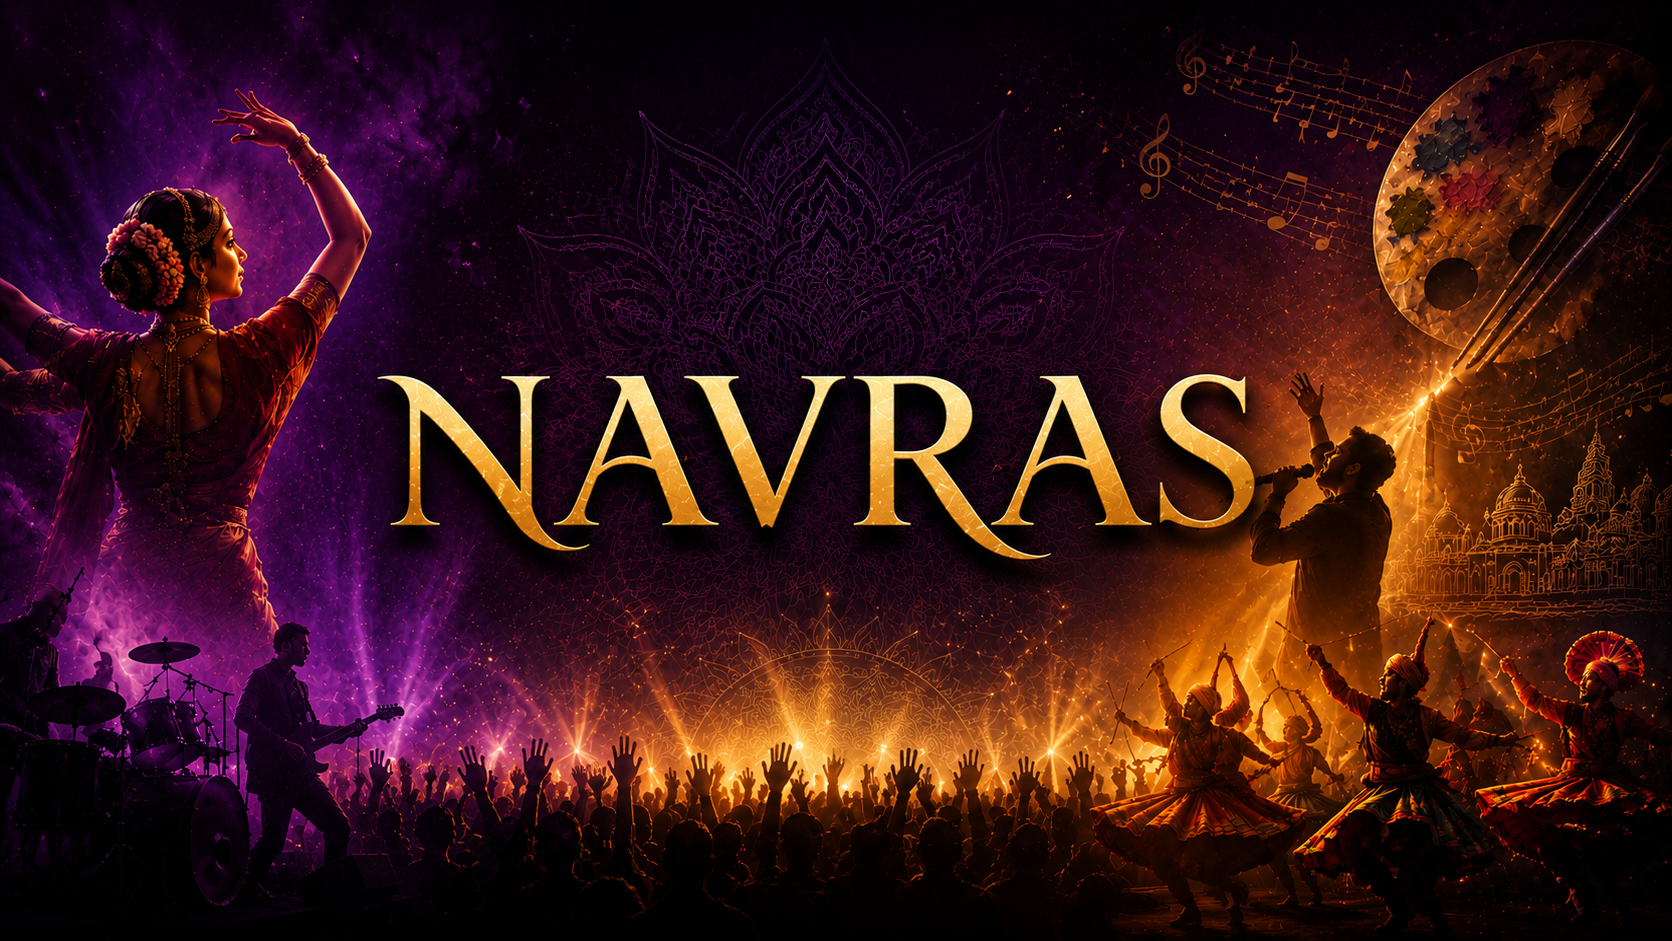
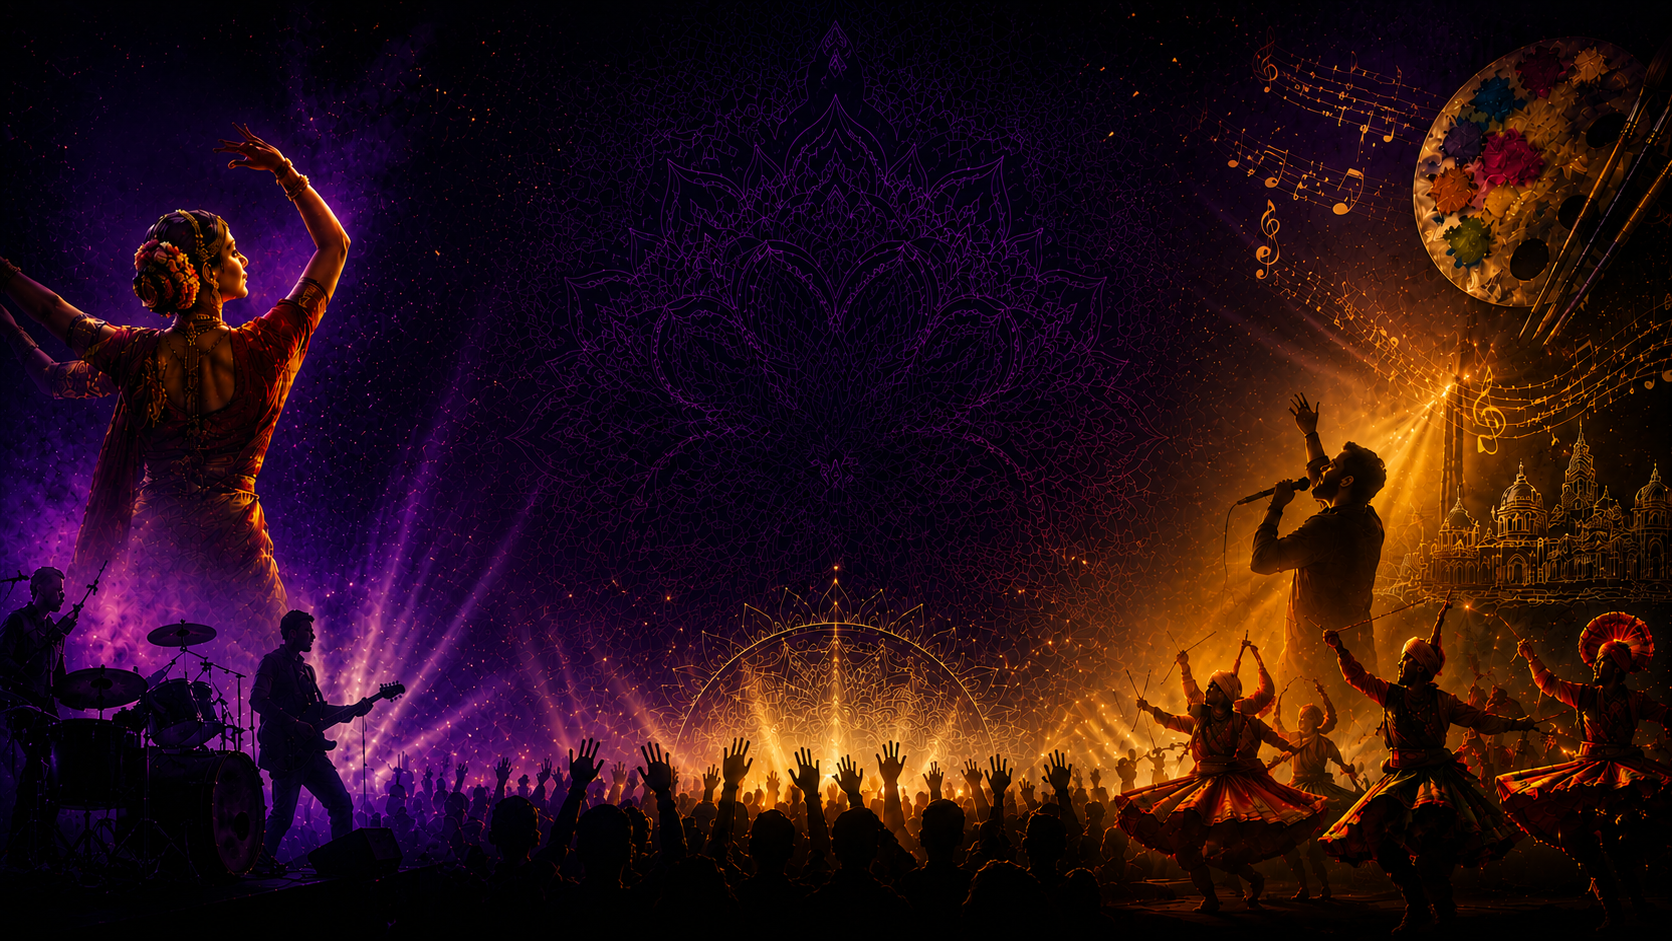
hero fix

diff --git a/style.css b/style.css
@@ -324,28 +324,56 @@ button {
   margin-bottom: 225px;
 }
 
-.hero-title {
-  font-family: var(--font-display);
+.hero-title{
+  font-family: 'Playfair Display', serif;
+
+  font-size: clamp(70px,12vw,180px);
+
   font-weight: 900;
 
-  font-size: clamp(90px, 13vw, 190px);
-  line-height: 1;
+  line-height: .9;
 
-  letter-spacing: -.03em;
+  letter-spacing: .04em;
 
-  display: flex;
-  justify-content: center;
-  align-items: center;
+  text-transform: uppercase;
 
-  width: fit-content;
-  margin: 0 auto;
+ margin: -173px 0 58px;
 
-  padding-right: 40px;
+  color: #f6d27a;
 
-  background: linear-gradient(180deg, #fff 30%, rgba(255, 255, 255, .4));
+  text-shadow:
+    0 0 10px rgba(255,210,122,.25),
+    0 0 25px rgba(255,180,60,.25),
+    0 8px 40px rgba(0,0,0,.6);
+
+  position: relative;
+
+  z-index: 2;
+}
+
+.hero-title span{
+  background: linear-gradient(
+    135deg,
+    #ffcf70 0%,
+    #ffb347 30%,
+    #ff7a18 60%,
+    #ffd700 100%
+  );
+
   -webkit-background-clip: text;
+  -webkit-text-fill-color: transparent;
+
   background-clip: text;
-  color: transparent;
+}
+
+@media (max-width:768px){
+
+  .hero-title{
+    font-size: clamp(52px,18vw,95px);
+
+    margin: 20px 0 28px;
+  }
+
 }
 
 .hero-title .accent {

diff --git a/index.html b/index.html
@@ -48,7 +48,9 @@
     </div> -->
     <div class="hero-content" id="heroContent">
       <span class="hero-eyebrow">Cultural Society of JEMTEC</span>
-      <!-- <h1 class="hero-title">NAV<span class="accent">RAS</span></h1> -->
+      <h1 class="hero-title">
+        NAV<span>RAS</span>
+      </h1>
       <!-- <p class="hero-tagline">Where rhythm meets expression — nine emotions, one stage.</p> -->
       <div class="hero-actions">
         <a href="#past-events" class="btn btn-primary">Explore Events</a>
